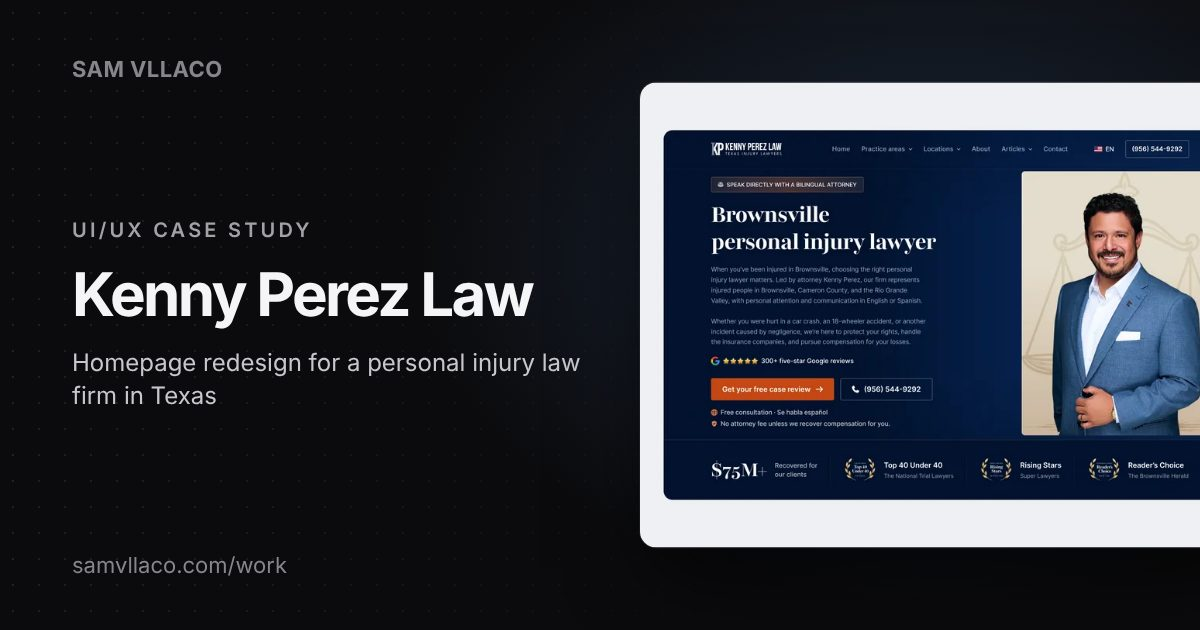
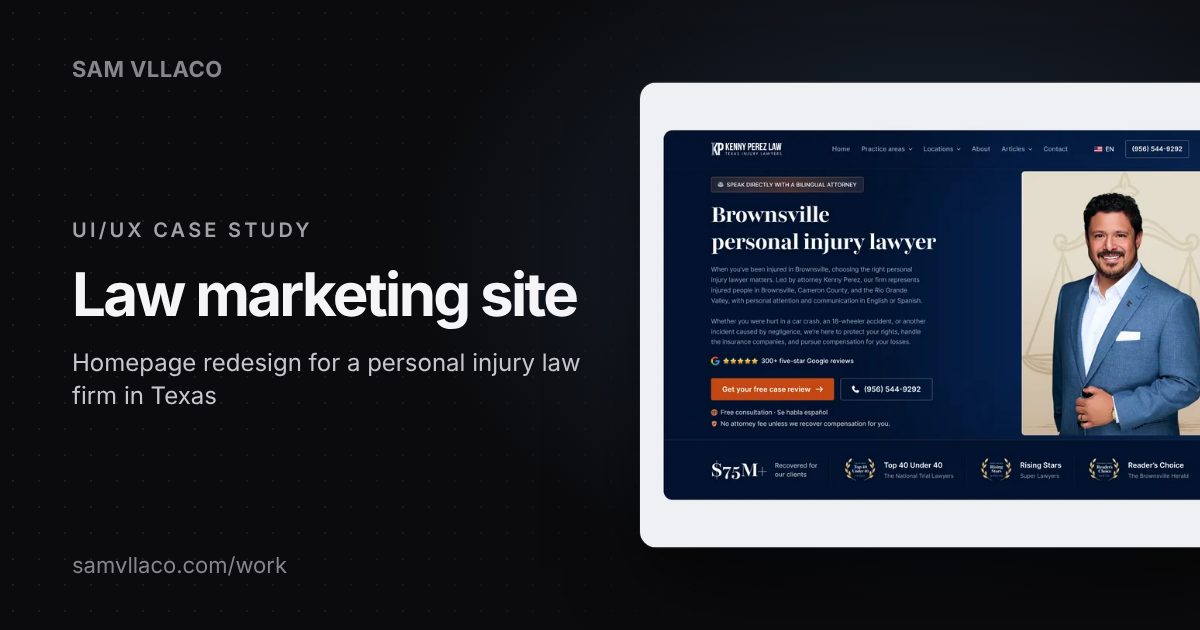
Home wall stats band starts at the top with no strip above; law case study shown as Law marketing site

Changed region(s): [[0.0617, 0.4222, 0.4933, 0.5429]]

diff --git a/lib/work.js b/lib/work.js
@@ -4,7 +4,7 @@ export const WORK = [
   {"platform": "desktop", "slug": "freelance-marketplace", "tags": ["Marketplace", "B2B SaaS"], "title": "Freelance marketplace", "sub": "Messages, milestones and escrow payments for hiring designers", "alt": "A freelance marketplace messages screen with a conversation list, a chat with a milestone review card and a project panel", "w": 1600, "h": 1200, "big": "/work/freelance-marketplace-02.webp?v=6", "small": "/work/freelance-marketplace-800.webp?v=6", "smallW": 800, "video": "/work/freelance-marketplace-02-anim.mp4?v=6", "fullVideo": "/work/freelance-marketplace-full.mp4", "overview": "Veyra is a concept for a freelance marketplace where clients hire designers and pay per milestone. I designed the part where most projects go wrong: the conversation. The chat, the milestone under review and the money held in escrow sit on one screen, so a client can read the update, check what changed and approve the payment without leaving the thread.", "role": "UI and UX design, product thinking", "tools": "Figma", "decisions": [{"title": "Money is always explained", "text": "The project card splits the budget into paid, in escrow and not funded yet. The three rows add up to the total, and the escrow row has an info tooltip."}, {"title": "One primary action", "text": "Approve and pay is the only filled button on the screen. Everything else is a quiet secondary control."}, {"title": "Trust is earned, not claimed", "text": "The trust score only counts work paid through the platform, and the panel says so."}], "screens": [{"src": "/work/freelance-marketplace-01.webp", "video": "/work/freelance-marketplace-01-anim.mp4?v=4", "w": 1600, "h": 900, "alt": "Messages: conversation list, chat with the milestone review card, and the project panel", "cap": "Messages: conversation list, chat with the milestone review card, and the project panel."}, {"src": "/work/freelance-marketplace-04.webp", "video": "/work/freelance-marketplace-04-anim.mp4?v=4", "w": 1600, "h": 1200, "alt": "The UX decisions behind the screen", "cap": "The UX decisions behind the screen."}, {"src": "/work/freelance-marketplace-05.webp", "video": "/work/freelance-marketplace-05-anim.mp4?v=4", "w": 1600, "h": 900, "alt": "Discover: designers ranked by match to the brief, with a trust score and a shortlist to compare", "cap": "Discover: designers ranked by match to the brief, with a trust score and a shortlist to compare."}, {"src": "/work/freelance-marketplace-06.webp", "video": "/work/freelance-marketplace-06-anim.mp4?v=4", "w": 1600, "h": 900, "alt": "Project: milestones, budget and files for one engagement", "cap": "Project: milestones, budget and files for one engagement."}, {"src": "/work/freelance-marketplace-07.webp", "video": "/work/freelance-marketplace-07-anim.mp4?v=4", "w": 1600, "h": 900, "alt": "Approve and pay: the confirmation step before money is released", "cap": "Approve and pay: the confirmation step before money is released."}, {"src": "/work/freelance-marketplace-08.webp", "video": "/work/freelance-marketplace-08-anim.mp4?v=4", "w": 1600, "h": 1200, "alt": "The milestone review card on its own", "cap": "The milestone review card on its own."}, {"src": "/work/freelance-marketplace-03.webp", "w": 1600, "h": 1200, "alt": "The project cover", "cap": "The cover shot."}]},
   {"platform": "desktop", "slug": "room-editor", "tags": ["3D", "B2C"], "title": "3D room editor", "sub": "Plan a room in 3D, pick furniture and hand it to a VR headset", "alt": "A 3D room editor showing a living room with an object panel, a toolbar and an inspector", "w": 1600, "h": 1200, "big": "/work/room-editor-02.webp?v=6", "small": "/work/room-editor-800.webp?v=6", "smallW": 800, "video": "/work/room-editor-02-anim.mp4?v=6", "fullVideo": "/work/room-editor-full.mp4", "overview": "Aruma is a concept for a 3D room planner. You place furniture in a real-looking room, change materials in an inspector, keep a shopping list of what you used and send the room to a VR headset to stand inside it. The interface uses dark smoked glass panels so the room stays the brightest thing on screen.", "role": "UI and UX design, spatial interface design", "tools": "Figma", "decisions": [{"title": "The room is the interface", "text": "Panels float over the scene as dark glass and never cover the object you are editing."}, {"title": "Select, then edit", "text": "Clicking an object opens its toolbar and inspector in place, with size, material and price."}, {"title": "From plan to purchase", "text": "Everything placed in the room is collected into a shopping list with totals."}], "screens": [{"src": "/work/room-editor-01.webp", "video": "/work/room-editor-01-anim.mp4?v=4", "w": 1600, "h": 900, "alt": "The room editor", "cap": "The room editor."}, {"src": "/work/room-editor-04.webp", "video": "/work/room-editor-04-anim.mp4?v=4", "w": 1600, "h": 1200, "alt": "The UX decisions behind the editor", "cap": "The UX decisions behind the editor."}, {"src": "/work/room-editor-05.webp", "video": "/work/room-editor-05-anim.mp4?v=4", "w": 1600, "h": 900, "alt": "Home: your rooms and style profile", "cap": "Home: your rooms and style profile."}, {"src": "/work/room-editor-06.webp", "video": "/work/room-editor-06-anim.mp4?v=4", "w": 1600, "h": 900, "alt": "A table selected, with its toolbar and inspector", "cap": "A table selected, with its toolbar and inspector."}, {"src": "/work/room-editor-07.webp", "video": "/work/room-editor-07-anim.mp4?v=4", "w": 1600, "h": 900, "alt": "Shopping list: every item in the room with prices", "cap": "Shopping list: every item in the room with prices."}, {"src": "/work/room-editor-08.webp", "video": "/work/room-editor-08-anim.mp4?v=4", "w": 1600, "h": 900, "alt": "VR handoff: send the room to a headset", "cap": "VR handoff: send the room to a headset."}, {"src": "/work/room-editor-09.webp", "video": "/work/room-editor-09-anim.mp4?v=4", "w": 1600, "h": 1200, "alt": "The inspector on its own", "cap": "The inspector on its own."}, {"src": "/work/room-editor-03.webp", "w": 1600, "h": 1200, "alt": "The project cover", "cap": "The cover shot."}]},
   {"platform": "desktop", "slug": "language-player", "tags": ["EdTech", "B2C"], "title": "Language learning player", "sub": "Learn a language by watching shows, with subtitles you can tap", "alt": "A dark video player with dual subtitles and a word card open over a scene by a lake", "w": 1600, "h": 1200, "big": "/work/language-player-02.webp?v=6", "small": "/work/language-player-800.webp?v=6", "smallW": 800, "video": "/work/language-player-02-anim.mp4?v=6", "fullVideo": "/work/language-player-full.mp4", "overview": "Sublio is a concept for learning a language by watching shows. The player shows subtitles in two languages. Tapping a word pauses the video and opens a card with its meaning, and saved words come back later as short reviews. The work was keeping the learning tools close without covering the picture.", "role": "UI and UX design, interaction design", "tools": "Figma", "decisions": [{"title": "The video stays the hero", "text": "Controls and panels are smoked glass over the picture, and they hide when you are not using them."}, {"title": "One tap to learn a word", "text": "The word card opens where you tapped, with meaning, example and a save button."}, {"title": "Review in small sessions", "text": "Saved words return in short sets with the scene they came from."}], "screens": [{"src": "/work/language-player-01.webp", "video": "/work/language-player-01-anim.mp4?v=4", "w": 1600, "h": 900, "alt": "Watch: dual subtitles and the word card", "cap": "Watch: dual subtitles and the word card."}, {"src": "/work/language-player-04.webp", "video": "/work/language-player-04-anim.mp4?v=4", "w": 1600, "h": 1200, "alt": "The UX decisions behind the player", "cap": "The UX decisions behind the player."}, {"src": "/work/language-player-05.webp", "video": "/work/language-player-05-anim.mp4?v=4", "w": 1600, "h": 900, "alt": "Home: continue watching and shows by level", "cap": "Home: continue watching and shows by level."}, {"src": "/work/language-player-06.webp", "video": "/work/language-player-06-anim.mp4?v=4", "w": 1600, "h": 900, "alt": "Review: saved words with their scenes", "cap": "Review: saved words with their scenes."}, {"src": "/work/language-player-07.webp", "video": "/work/language-player-07-anim.mp4?v=4", "w": 1600, "h": 900, "alt": "Progress: words learned and time watched", "cap": "Progress: words learned and time watched."}, {"src": "/work/language-player-08.webp", "video": "/work/language-player-08-anim.mp4?v=4", "w": 1600, "h": 1200, "alt": "The word card on its own", "cap": "The word card on its own."}, {"src": "/work/language-player-03.webp", "w": 1600, "h": 1200, "alt": "The project cover", "cap": "The cover shot."}]},
-  {"platform": "desktop", "slug": "law-firm-website", "tags": ["Marketing site"], "title": "Kenny Perez Law", "sub": "Homepage redesign for a personal injury law firm in Texas", "alt": "The redesigned Kenny Perez Law homepage hero with a short headline, the attorney portrait, a review badge and two calls to action", "w": 1600, "h": 1200, "big": "/work/law-firm-website-02.webp", "small": "/work/law-firm-website-800.webp", "smallW": 800, "video": "/work/law-firm-website-hover.mp4", "fullVideo": "/work/law-firm-website-full.mp4", "overview": "A homepage redesign for Kenny Perez Law, a personal injury firm in Brownsville, Texas. The old page opened with a long headline and a group photo. The new one leads with a short headline, the attorney, Google reviews and two clear ways to get in touch, then follows with an attorney intro, practice areas and local content. The video shows the old hero wiping to the new one.", "role": "Web design, UI and UX design", "tools": "Figma", "decisions": [{"title": "A hero with one job", "text": "One short headline, the attorney portrait, a review badge and two actions: a free case review or a call."}, {"title": "Proof up front", "text": "The amount recovered and the awards sit directly under the hero."}, {"title": "One section, one heading", "text": "The page went from 11 sections to 17, each with a single purpose, including practice area cards, office locations, an FAQ and a Spanish block."}], "screens": [{"src": "/work/law-firm-website-01.webp", "w": 1600, "h": 1200, "alt": "The old hero beside the redesigned hero", "cap": "Hero, before and after."}, {"src": "/work/law-firm-website-03.webp", "w": 1600, "h": 1200, "alt": "The old practice areas section beside the redesigned practice area cards", "cap": "Practice areas, before and after."}, {"src": "/work/law-firm-website-04.webp", "w": 1600, "h": 1200, "alt": "Six points describing what changed in the redesign", "cap": "What changed."}]},
+  {"platform": "desktop", "slug": "law-firm-website", "tags": ["Marketing site"], "title": "Law marketing site", "sub": "Homepage redesign for a personal injury law firm in Texas", "alt": "The redesigned law firm homepage hero with a short headline, the attorney portrait, a review badge and two calls to action", "w": 1600, "h": 1200, "big": "/work/law-firm-website-02.webp", "small": "/work/law-firm-website-800.webp", "smallW": 800, "video": "/work/law-firm-website-hover.mp4", "fullVideo": "/work/law-firm-website-full.mp4", "overview": "A homepage redesign for a personal injury firm in Brownsville, Texas. The old page opened with a long headline and a group photo. The new one leads with a short headline, the attorney, Google reviews and two clear ways to get in touch, then follows with an attorney intro, practice areas and local content. The video shows the old hero wiping to the new one.", "role": "Web design, UI and UX design", "tools": "Figma", "decisions": [{"title": "A hero with one job", "text": "One short headline, the attorney portrait, a review badge and two actions: a free case review or a call."}, {"title": "Proof up front", "text": "The amount recovered and the awards sit directly under the hero."}, {"title": "One section, one heading", "text": "The page went from 11 sections to 17, each with a single purpose, including practice area cards, office locations, an FAQ and a Spanish block."}], "screens": [{"src": "/work/law-firm-website-01.webp", "w": 1600, "h": 1200, "alt": "The old hero beside the redesigned hero", "cap": "Hero, before and after."}, {"src": "/work/law-firm-website-03.webp", "w": 1600, "h": 1200, "alt": "The old practice areas section beside the redesigned practice area cards", "cap": "Practice areas, before and after."}, {"src": "/work/law-firm-website-04.webp", "w": 1600, "h": 1200, "alt": "Six points describing what changed in the redesign", "cap": "What changed."}]},
   {"platform": "mobile", "slug": "mobile-banking", "tags": ["Fintech", "Mobile app"], "title": "Mobile banking", "sub": "A dark banking app for balances, spending and sending money", "alt": "Three dark mobile banking screens: home with the balance card, spending and send money", "w": 1600, "h": 1200, "big": "/work/mobile-banking-02.webp?v=5", "small": "/work/mobile-banking-800.webp?v=5", "smallW": 800, "video": "/work/mobile-banking-02-anim.mp4?v=5", "fullVideo": "/work/mobile-banking-02-anim.mp4?v=5", "overview": "Orra is a concept for a mobile banking app with accounts in more than one currency. Home answers the first question, how much do I have, with one balance card. Spending shows where the money went this month, and sending money is a number pad with quick amounts.", "role": "UI and UX design, mobile design", "tools": "Figma", "decisions": [{"title": "One balance first", "text": "The total sits in the largest card, with each currency under it."}, {"title": "Spending against a budget", "text": "The month is shown against the budget you set, not as a bare chart."}, {"title": "Sending in a few taps", "text": "Recent people, quick amounts and a clear total before you confirm."}], "screens": [{"src": "/work/mobile-banking-01.webp?v=4", "video": "/work/mobile-banking-01-anim.mp4?v=4", "w": 1600, "h": 900, "alt": "Home, spending and send money", "cap": "Home, spending and send money."}, {"src": "/work/mobile-banking-04.webp?v=4", "video": "/work/mobile-banking-04-anim.mp4?v=4", "w": 1600, "h": 1200, "alt": "The UX decisions behind the home screen", "cap": "The UX decisions behind the home screen."}, {"src": "/work/mobile-banking-05.webp?v=4", "video": "/work/mobile-banking-05-anim.mp4?v=4", "w": 1600, "h": 900, "alt": "Cards, currency conversion and the receipt", "cap": "Cards, currency conversion and the receipt."}, {"src": "/work/mobile-banking-07.webp?v=4", "video": "/work/mobile-banking-07-anim.mp4?v=4", "w": 1600, "h": 1200, "alt": "The balance card on its own", "cap": "The balance card on its own."}, {"src": "/work/mobile-banking-03.webp?v=4", "w": 1600, "h": 1200, "alt": "The project cover", "cap": "The cover shot."}]},
   {"platform": "mobile", "slug": "supplements-store", "tags": ["E-commerce", "Mobile app"], "title": "Supplements store", "sub": "A mobile store for supplements with subscriptions and a daily plan", "alt": "Three mobile store screens: home, a product page and the cart", "w": 1600, "h": 1200, "big": "/work/supplements-store-02.webp?v=5", "small": "/work/supplements-store-800.webp?v=5", "smallW": 800, "video": "/work/supplements-store-02-anim.mp4?v=5", "fullVideo": "/work/supplements-store-02-anim.mp4?v=5", "overview": "Solena is a concept for a mobile supplements store. The product page makes the choice between a subscription and a single purchase clear, the cart explains every line of the total, and after the order a daily plan tells you what to take and when.", "role": "UI and UX design, mobile design, conversion", "tools": "Figma", "decisions": [{"title": "Price is never a surprise", "text": "Savings, shipping and promo codes are itemised, and the button repeats the total."}, {"title": "Subscribe or buy once", "text": "Both options sit side by side with their real prices."}, {"title": "After the order", "text": "A daily plan and refill reminders give a reason to come back."}], "screens": [{"src": "/work/supplements-store-01.webp?v=4", "video": "/work/supplements-store-01-anim.mp4?v=4", "w": 1600, "h": 900, "alt": "Home, product and cart", "cap": "Home, product and cart."}, {"src": "/work/supplements-store-04.webp?v=4", "video": "/work/supplements-store-04-anim.mp4?v=4", "w": 1600, "h": 1200, "alt": "The UX decisions behind the store", "cap": "The UX decisions behind the store."}, {"src": "/work/supplements-store-05.webp?v=4", "video": "/work/supplements-store-05-anim.mp4?v=4", "w": 1600, "h": 900, "alt": "Checkout, order placed and the daily plan", "cap": "Checkout, order placed and the daily plan."}, {"src": "/work/supplements-store-07.webp?v=4", "video": "/work/supplements-store-07-anim.mp4?v=4", "w": 1600, "h": 1200, "alt": "The cart summary on its own", "cap": "The cart summary on its own."}, {"src": "/work/supplements-store-03.webp?v=4", "w": 1600, "h": 1200, "alt": "The project cover", "cap": "The cover shot."}]},
   {"platform": "mobile", "slug": "trip-planner", "tags": ["Travel", "Mobile app"], "title": "Trip planner", "sub": "Plan a trip day by day and book the stops in one place", "alt": "Three mobile trip planner screens: trip home, day plan and review and pay", "w": 1600, "h": 1200, "big": "/work/trip-planner-02.webp?v=5", "small": "/work/trip-planner-800.webp?v=5", "smallW": 800, "video": "/work/trip-planner-02-anim.mp4?v=5", "fullVideo": "/work/trip-planner-02-anim.mp4?v=5", "overview": "Fernway is a concept for a trip planner. A trip is a list of days, each day is a list of stops, and the app keeps track of what is booked and what still needs a ticket. Review and pay brings every booking into one total before you commit.", "role": "UI and UX design, mobile design", "tools": "Figma", "decisions": [{"title": "Days, then stops", "text": "The day strip keeps the whole trip in reach while you plan one day."}, {"title": "Ready or not", "text": "A readiness card shows what is booked and what is missing."}, {"title": "One payment", "text": "All bookings are reviewed and paid together."}], "screens": [{"src": "/work/trip-planner-01.webp?v=4", "video": "/work/trip-planner-01-anim.mp4?v=4", "w": 1600, "h": 900, "alt": "Trip home, day plan and review and pay", "cap": "Trip home, day plan and review and pay."}, {"src": "/work/trip-planner-04.webp?v=4", "video": "/work/trip-planner-04-anim.mp4?v=4", "w": 1600, "h": 1200, "alt": "The UX decisions behind the trip home", "cap": "The UX decisions behind the trip home."}, {"src": "/work/trip-planner-05.webp?v=4", "video": "/work/trip-planner-05-anim.mp4?v=4", "w": 1600, "h": 1200, "alt": "Checklist, stop detail and trip booked", "cap": "Checklist, stop detail and trip booked."}, {"src": "/work/trip-planner-06.webp?v=4", "video": "/work/trip-planner-06-anim.mp4?v=4", "w": 1600, "h": 1200, "alt": "The up next stop and its ticket", "cap": "The up next stop and its ticket."}, {"src": "/work/trip-planner-03.webp?v=4", "w": 1600, "h": 1200, "alt": "The project cover", "cap": "The cover shot."}]},

diff --git a/app/globals.css b/app/globals.css
@@ -4883,3 +4883,9 @@ body:has(.rv-ty) .top-note { display: none; }
 .rv-mail { margin: 16px 0 0; font-size: .9375rem; color: var(--muted); }
 .rv-mail a { color: var(--text); }
 @media (max-width: 560px) { .rv-box { padding: 24px; } .rv-form .hero2-btn { justify-self: stretch; } }
+/* Wall stats band runs from the very top of the sticky frame, under the header, so no strip of wall shows above it (owner, 15 Nov 2026). */
+.wall-stats { top: 0; padding-top: 100px; }
+.hero2 + .wall { margin-top: 0; }
+.wall-stats::before { background: radial-gradient(60% 80% at 50% 30%, rgba(255, 255, 255, .07), transparent 70%); }
+:root[data-theme="light"] .wall-stats::before { background: radial-gradient(60% 80% at 50% 30%, rgba(255, 255, 255, .5), transparent 70%); }
+@media (max-width: 640px) { .wall-stats { padding-top: 96px; } }
